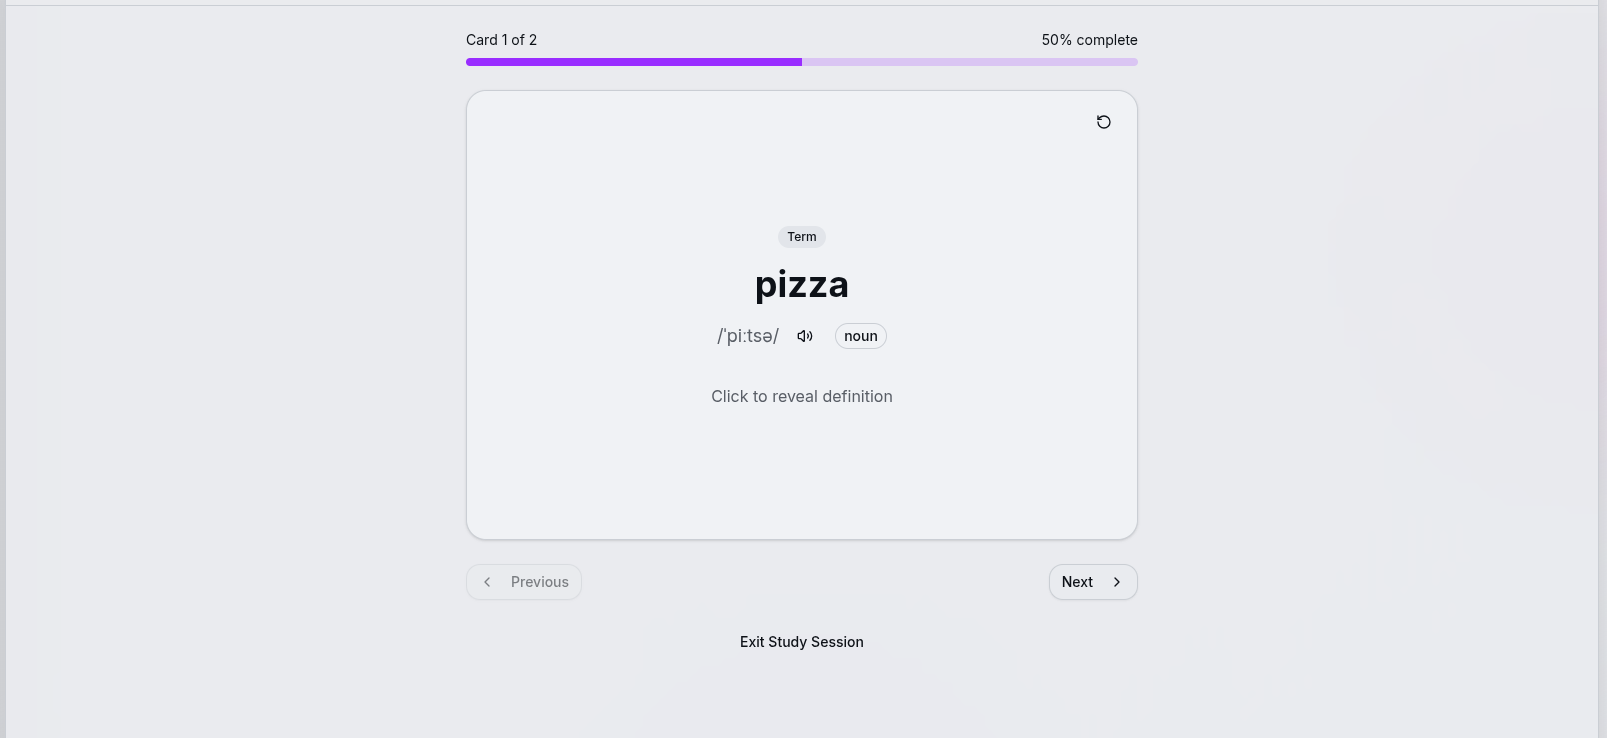
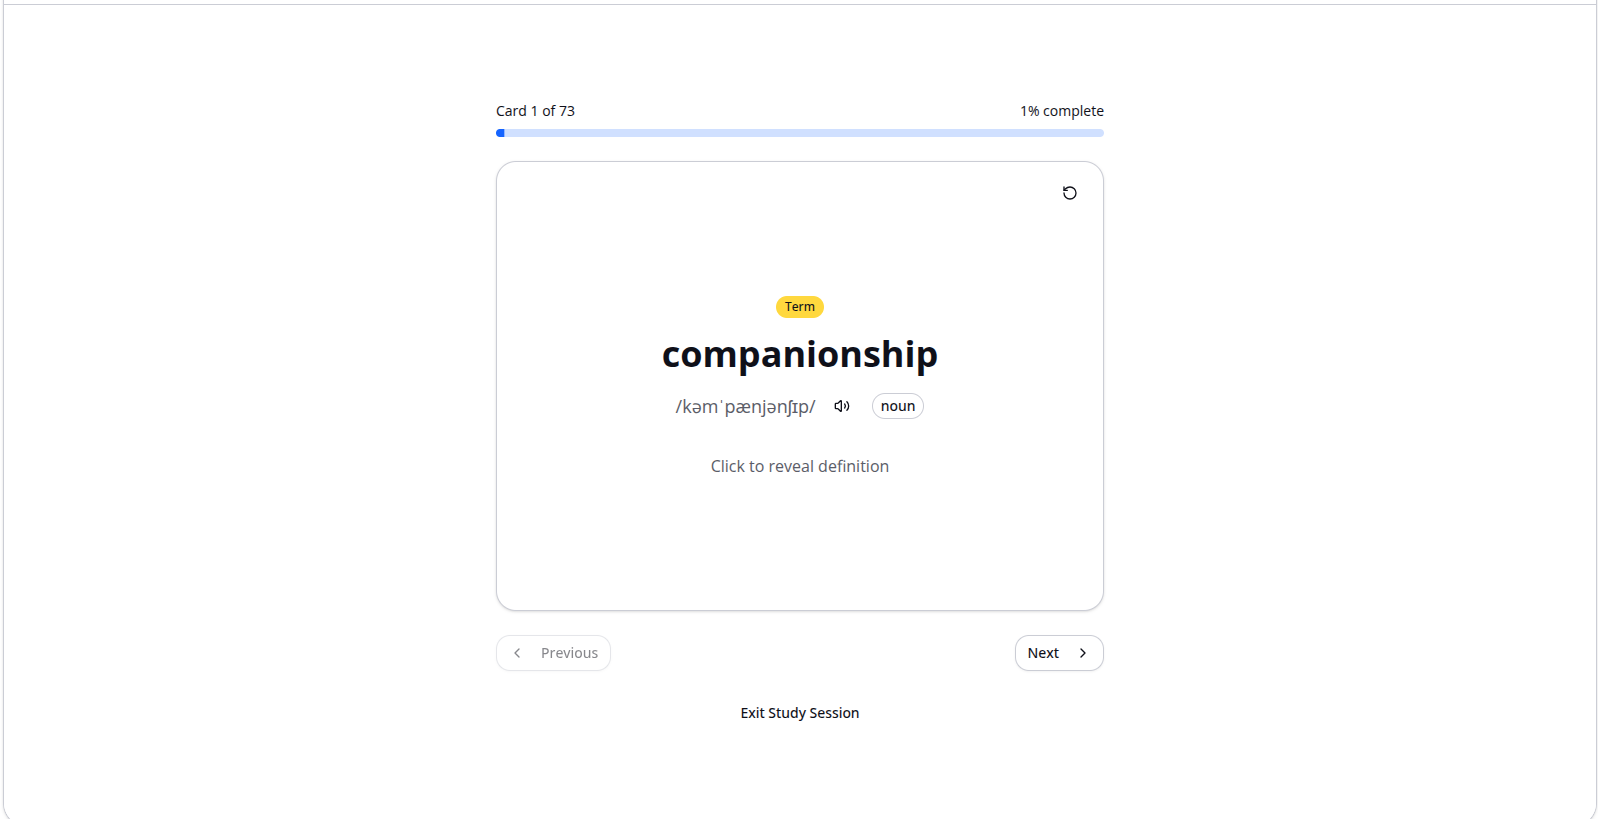
feat: add animated background component and remove YouTube integration references

diff --git a/app/(landing)/page.tsx b/app/(landing)/page.tsx
@@ -14,7 +14,6 @@ import {
   BookOpen,
   Brain,
   CheckCircle,
-  Youtube,
   Zap,
   BookOpenCheck,
   Moon,
@@ -29,6 +28,7 @@ import { useTranslation } from "@/lib/i18n-provider";
 import { useState } from "react";
 import { useScrollAnimation } from "@/hooks/use-scroll-animation";
 import { useRedirectIfAuthenticated } from "@/hooks/use-auth-guard";
+import { AnimatedBackground } from "@/components/landing/animated-background";
 
 // Highlight Features with Screenshots
 const highlightFeatures = [
@@ -63,12 +63,6 @@ const highlightFeatures = [
 
 // Additional Features
 const additionalFeatures = [
-  {
-    icon: Youtube,
-    title: "YouTube Integration",
-    description:
-      "Learn from real content. Extract vocabulary from YouTube videos with transcripts and timestamps.",
-  },
   {
     icon: Target,
     title: "Smart Progress Tracking",
@@ -107,14 +101,9 @@ const faqs = [
       "Spaced repetition is a scientifically proven learning technique where you review information at increasing intervals. This method is proven to improve long-term retention by up to 200% compared to traditional studying.",
   },
   {
-    question: "Can I learn from YouTube videos?",
-    answer:
-      "Absolutely! Mindote integrates with YouTube to extract vocabulary from video transcripts. You can learn words in context, see timestamps, and build your collection from real English content.",
-  },
-  {
     question: "How is Mindote different from other vocabulary apps?",
     answer:
-      "Mindote combines multiple learning methods in one platform: flashcards, quizzes, reading practice, and YouTube integration. It's designed specifically for serious learners who want a comprehensive, systematic approach to vocabulary building.",
+      "Mindote combines multiple learning methods in one platform: flashcards, quizzes, and reading practice. It's designed specifically for serious learners who want a comprehensive, systematic approach to vocabulary building.",
   },
   {
     question: "Do I need to download anything?",
@@ -148,47 +137,49 @@ export default function LandingPage() {
 
   return (
     <div className="min-h-screen bg-background flex flex-col relative overflow-hidden">
-      {/* Background Gradient - REMOVED for pure white */}
-      {/* <div className="absolute inset-0 bg-gradient-to-br from-primary/5 via-background to-background pointer-events-none" /> */}
-      {/* Header */}
-      <header className="bg-background border-b border-border/40">
-        {" "}
-        <div className="container mx-auto px-4 py-4 flex items-center justify-between">
-          <div className="flex items-center space-x-2">
-            <Image
-              src="/logo.png"
-              alt="Mindote Logo"
-              width={48}
-              height={48}
-              className="h-12 w-12"
-            />
-            <h1 className="text-2xl font-bold text-foreground">Mindote</h1>
-          </div>
-          <div className="flex items-center gap-2">
-            <Button
-              variant="ghost"
-              size="icon"
-              onClick={toggleTheme}
-              aria-label="Toggle theme"
-              className="rounded-full"
-            >
-              {theme === "dark" ? (
-                <Sun className="h-5 w-5" />
-              ) : (
-                <Moon className="h-5 w-5" />
-              )}
-            </Button>
-            <Link href="/auth">
-              <Button className="rounded-full px-6">
-                {t("landing.getStarted")}
+      {/* Animated Particles Background */}
+      <AnimatedBackground />
+      
+      {/* Header with Glassmorphism */}
+      <header className="fixed top-4 left-1/2 -translate-x-1/2 z-50 w-[95%] max-w-7xl">
+        <div className="backdrop-blur-xl bg-background/60 border border-border/50 shadow-2xl rounded-full px-6 py-3 ring-1 ring-white/10">
+          <div className="flex items-center justify-between">
+            <div className="flex items-center space-x-2">
+              <Image
+                src="/logo.png"
+                alt="Mindote Logo"
+                width={48}
+                height={48}
+                className="h-12 w-12"
+              />
+              <h1 className="text-2xl font-bold text-foreground">Mindote</h1>
+            </div>
+            <div className="flex items-center gap-2">
+              <Button
+                variant="ghost"
+                size="icon"
+                onClick={toggleTheme}
+                aria-label="Toggle theme"
+                className="rounded-full"
+              >
+                {theme === "dark" ? (
+                  <Sun className="h-5 w-5" />
+                ) : (
+                  <Moon className="h-5 w-5" />
+                )}
               </Button>
-            </Link>
+              <Link href="/auth">
+                <Button className="rounded-full px-6">
+                  {t("landing.getStarted")}
+                </Button>
+              </Link>
+            </div>
           </div>
         </div>
       </header>
 
       {/* Hero Section */}
-      <section className="container mx-auto px-4 py-20 lg:py-28">
+      <section className="container mx-auto px-4 py-20 lg:py-28 mt-20">
         <div className="max-w-5xl mx-auto text-center space-y-8">
           <div className="inline-flex items-center gap-2 px-4 py-2 rounded-full bg-primary/10 border border-primary/20 text-primary text-sm font-medium mb-4 animate-fade-in-down">
             <Sparkles className="h-4 w-4" />
@@ -377,7 +368,7 @@ export default function LandingPage() {
           </div>
 
           <div
-            className={`grid grid-cols-1 md:grid-cols-2 gap-6 stagger-children ${
+            className={`grid grid-cols-1 md:grid-cols-3 gap-6 stagger-children ${
               additionalFeaturesRef.isVisible ? "is-visible" : ""
             }`}
           >

diff --git a/components/landing/animated-background.tsx b/components/landing/animated-background.tsx
@@ -1,0 +1,161 @@
+"use client";
+
+import { useEffect, useRef } from "react";
+import { useTheme } from "@/lib/theme-provider";
+
+interface Particle {
+  x: number;
+  y: number;
+  vx: number;
+  vy: number;
+  radius: number;
+  baseVx: number;
+  baseVy: number;
+}
+
+export function AnimatedBackground() {
+  const canvasRef = useRef<HTMLCanvasElement>(null);
+  const { theme } = useTheme();
+  const particlesRef = useRef<Particle[]>([]);
+  const mouseRef = useRef({ x: 0, y: 0 });
+  const animationFrameRef = useRef<number>();
+
+  useEffect(() => {
+    const canvas = canvasRef.current;
+    if (!canvas) return;
+
+    const ctx = canvas.getContext("2d");
+    if (!ctx) return;
+
+    // Set canvas size
+    const resizeCanvas = () => {
+      canvas.width = window.innerWidth;
+      canvas.height = window.innerHeight;
+      initParticles();
+    };
+
+    // Initialize particles
+    const initParticles = () => {
+      const particleCount = Math.floor((canvas.width * canvas.height) / 20000);
+      particlesRef.current = [];
+
+      for (let i = 0; i < particleCount; i++) {
+        const baseVx = (Math.random() - 0.5) * 0.6;
+        const baseVy = (Math.random() - 0.5) * 0.6;
+        particlesRef.current.push({
+          x: Math.random() * canvas.width,
+          y: Math.random() * canvas.height,
+          vx: baseVx,
+          vy: baseVy,
+          baseVx: baseVx,
+          baseVy: baseVy,
+          radius: Math.random() * 2 + 1,
+        });
+      }
+    };
+
+    // Mouse move handler
+    const handleMouseMove = (e: MouseEvent) => {
+      mouseRef.current = {
+        x: e.clientX,
+        y: e.clientY,
+      };
+    };
+
+    // Animation loop
+    const animate = () => {
+      ctx.clearRect(0, 0, canvas.width, canvas.height);
+
+      // Get particle color based on theme
+      const particleColor = theme === "dark" ? "rgba(255, 255, 255, 0.6)" : "rgba(0, 0, 0, 0.55)";
+      const lineColor = theme === "dark" ? "rgba(255, 255, 255, 0.18)" : "rgba(0, 0, 0, 0.18)";
+
+      // Update and draw particles
+      particlesRef.current.forEach((particle, i) => {
+        // Mouse interaction - subtle repel effect
+        const dx = mouseRef.current.x - particle.x;
+        const dy = mouseRef.current.y - particle.y;
+        const distance = Math.sqrt(dx * dx + dy * dy);
+        const maxDistance = 150;
+
+        if (distance < maxDistance && distance > 0) {
+          const force = (1 - distance / maxDistance) * 0.8;
+          // Gentle repel away from mouse
+          particle.vx -= (dx / distance) * force * 0.2;
+          particle.vy -= (dy / distance) * force * 0.2;
+        } else {
+          // Return to base velocity when not near mouse
+          particle.vx += (particle.baseVx - particle.vx) * 0.02;
+          particle.vy += (particle.baseVy - particle.vy) * 0.02;
+        }
+
+        // Update position
+        particle.x += particle.vx;
+        particle.y += particle.vy;
+
+        // Add subtle friction
+        particle.vx *= 0.99;
+        particle.vy *= 0.99;
+
+        // Wrap around edges for continuous movement
+        if (particle.x < -10) particle.x = canvas.width + 10;
+        if (particle.x > canvas.width + 10) particle.x = -10;
+        if (particle.y < -10) particle.y = canvas.height + 10;
+        if (particle.y > canvas.height + 10) particle.y = -10;
+
+        // Draw particle - simple and subtle
+        ctx.beginPath();
+        ctx.arc(particle.x, particle.y, particle.radius, 0, Math.PI * 2);
+        ctx.fillStyle = particleColor;
+        ctx.fill();
+
+        // Draw connections to nearby particles with distance-based opacity
+        for (let j = i + 1; j < particlesRef.current.length; j++) {
+          const other = particlesRef.current[j];
+          const dx = particle.x - other.x;
+          const dy = particle.y - other.y;
+          const distance = Math.sqrt(dx * dx + dy * dy);
+          const maxLineDistance = 120;
+
+          if (distance < maxLineDistance) {
+            const opacity = (1 - (distance / maxLineDistance)) * 0.5;
+            ctx.beginPath();
+            ctx.moveTo(particle.x, particle.y);
+            ctx.lineTo(other.x, other.y);
+            const isDark = theme === "dark";
+            ctx.strokeStyle = isDark 
+              ? `rgba(255, 255, 255, ${opacity * 0.2})` 
+              : `rgba(0, 0, 0, ${opacity * 0.2})`;
+            ctx.lineWidth = 0.8;
+            ctx.stroke();
+          }
+        }
+      });
+
+      animationFrameRef.current = requestAnimationFrame(animate);
+    };
+
+    // Initialize
+    resizeCanvas();
+    window.addEventListener("resize", resizeCanvas);
+    window.addEventListener("mousemove", handleMouseMove);
+    animate();
+
+    // Cleanup
+    return () => {
+      window.removeEventListener("resize", resizeCanvas);
+      window.removeEventListener("mousemove", handleMouseMove);
+      if (animationFrameRef.current) {
+        cancelAnimationFrame(animationFrameRef.current);
+      }
+    };
+  }, [theme]);
+
+  return (
+    <canvas
+      ref={canvasRef}
+      className="fixed inset-0 pointer-events-none z-0"
+      style={{ opacity: 0.5 }}
+    />
+  );
+}
